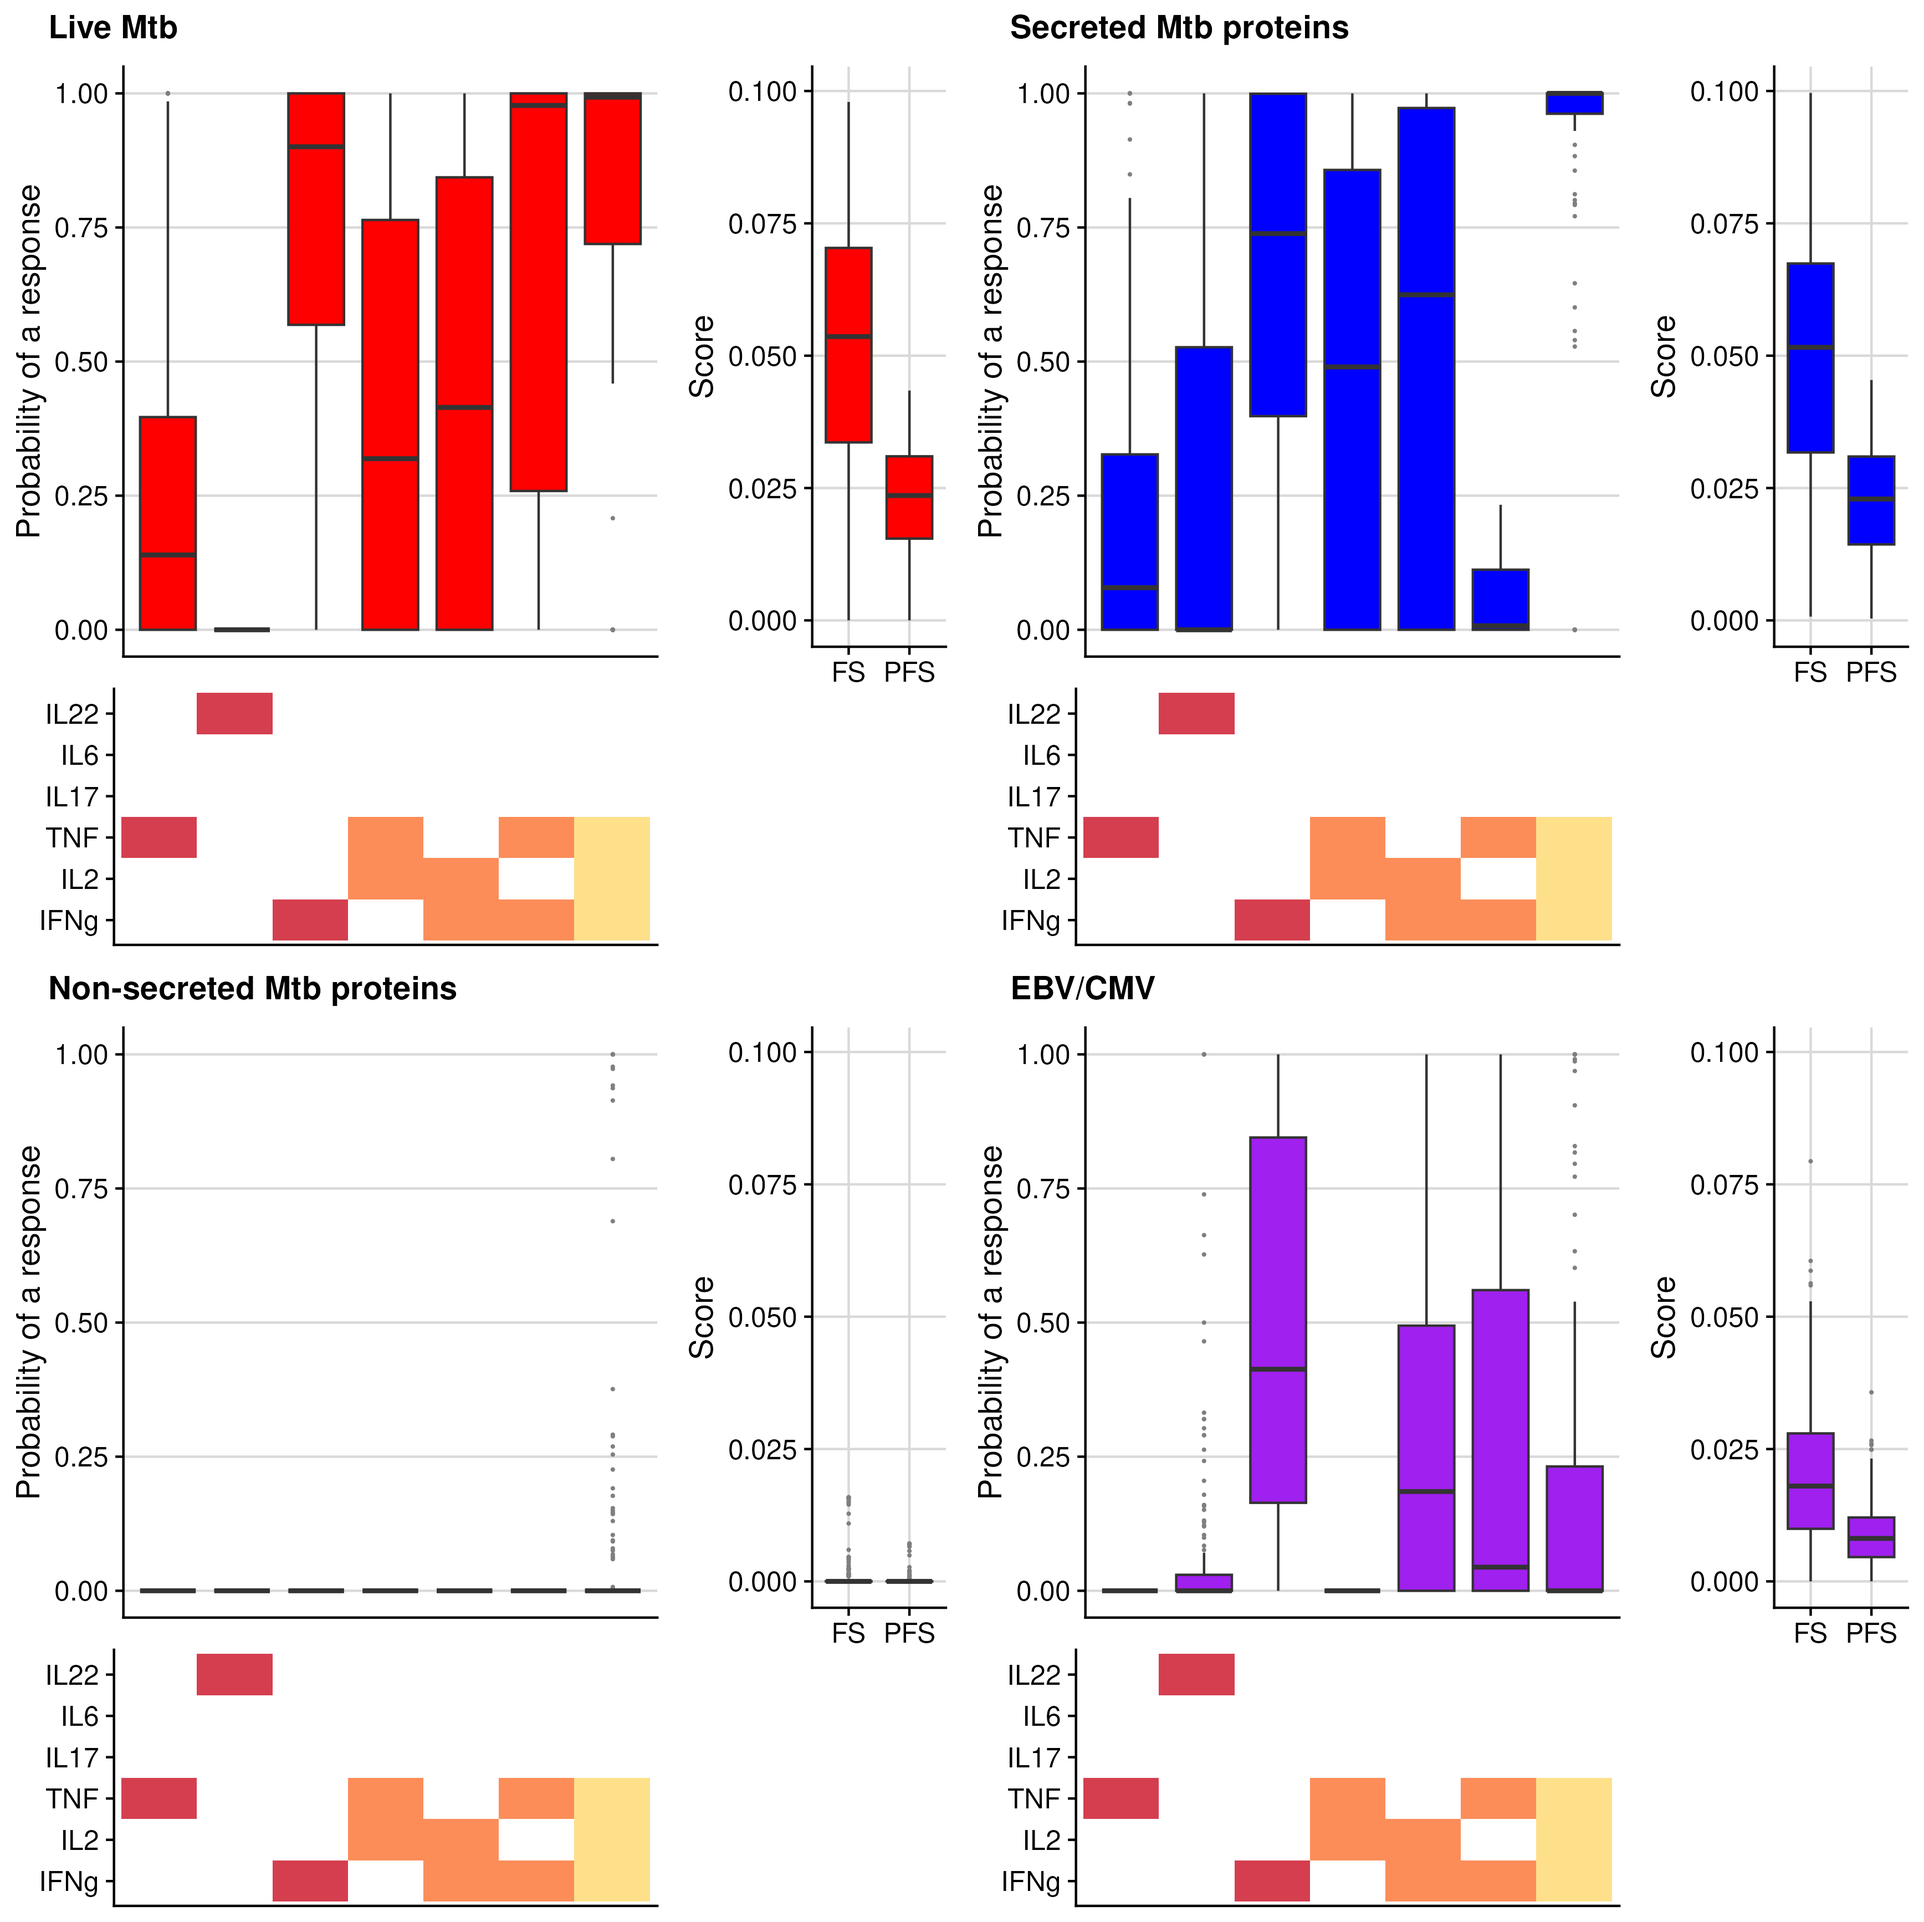
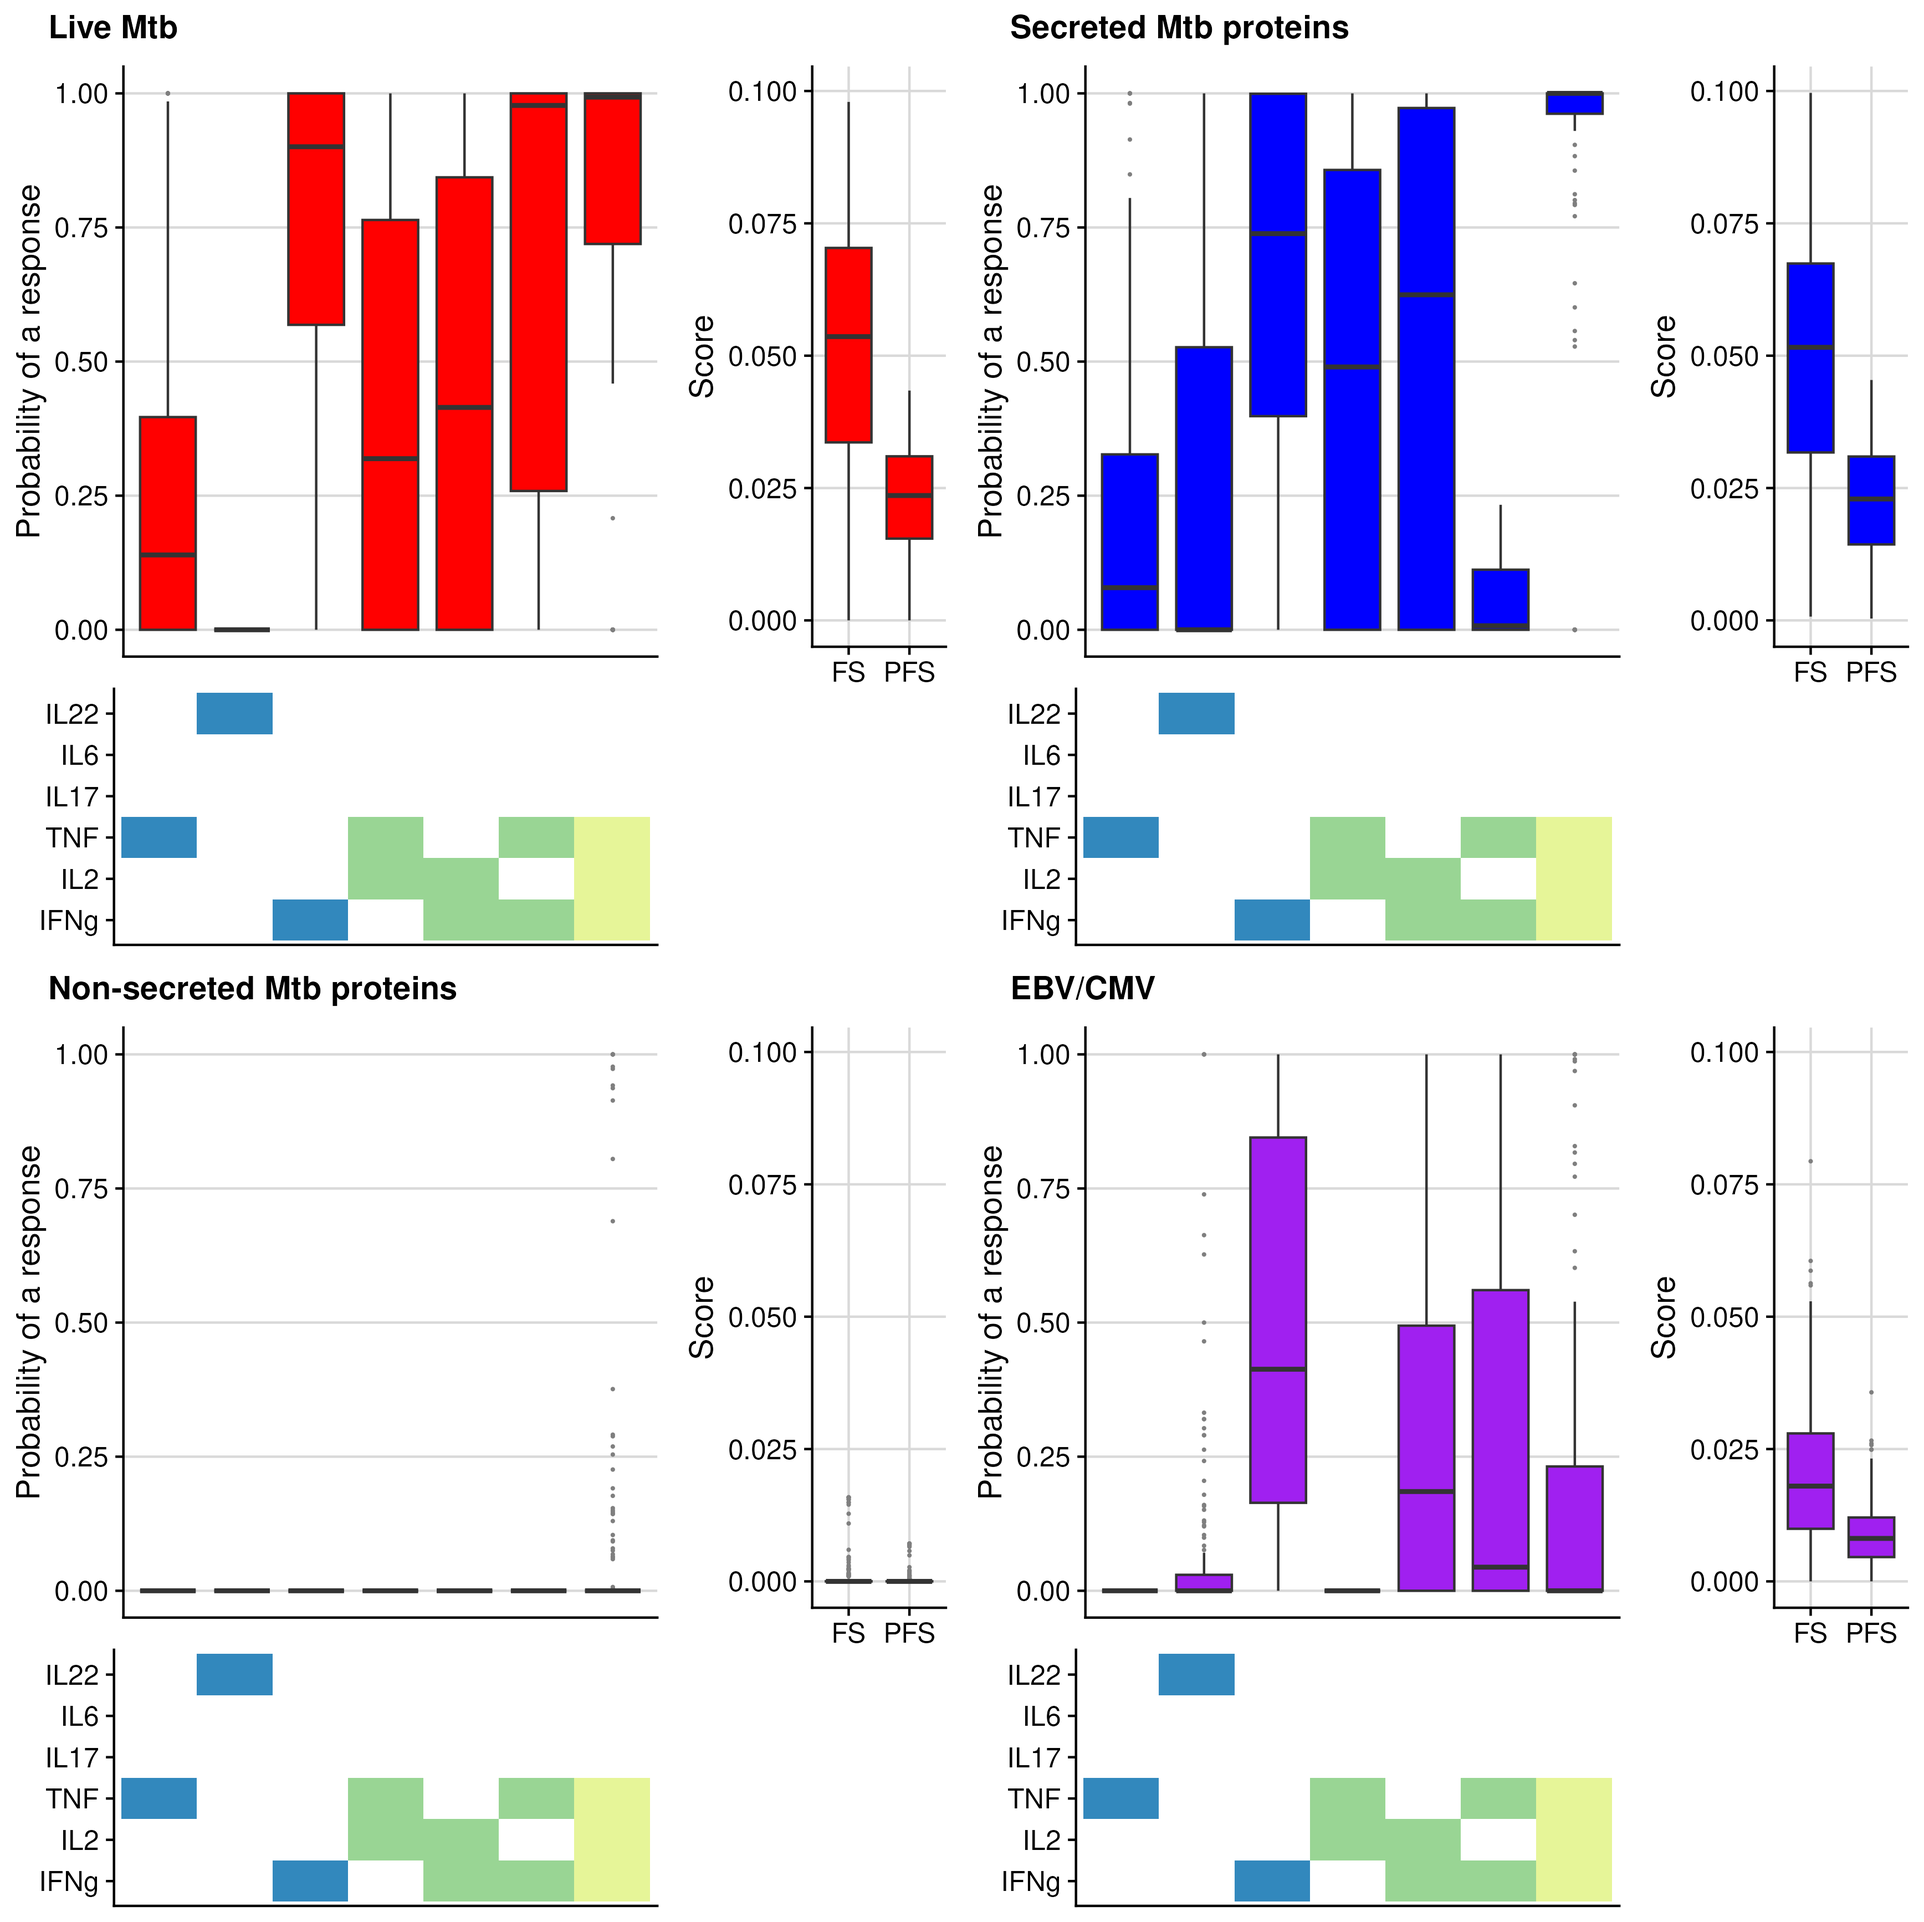
Update README and renv lock file

diff --git a/README.md b/README.md
@@ -63,7 +63,7 @@ plot_compass(
   shift_plot_pp_y = -0.075,
   shift_plot_heatmap_x = 0.034,
   plot_prob_fill = c("red", "blue", "green", "purple"),
-  tile_fill = RColorBrewer::brewer.pal(n = 6, name = "Spectral")
+  tile_fill = rev(RColorBrewer::brewer.pal(n = 6, name = "Spectral"))
 )
 knitr::include_graphics('data-raw/compass_boxplots_grid_custom_colours.png')
 ```
